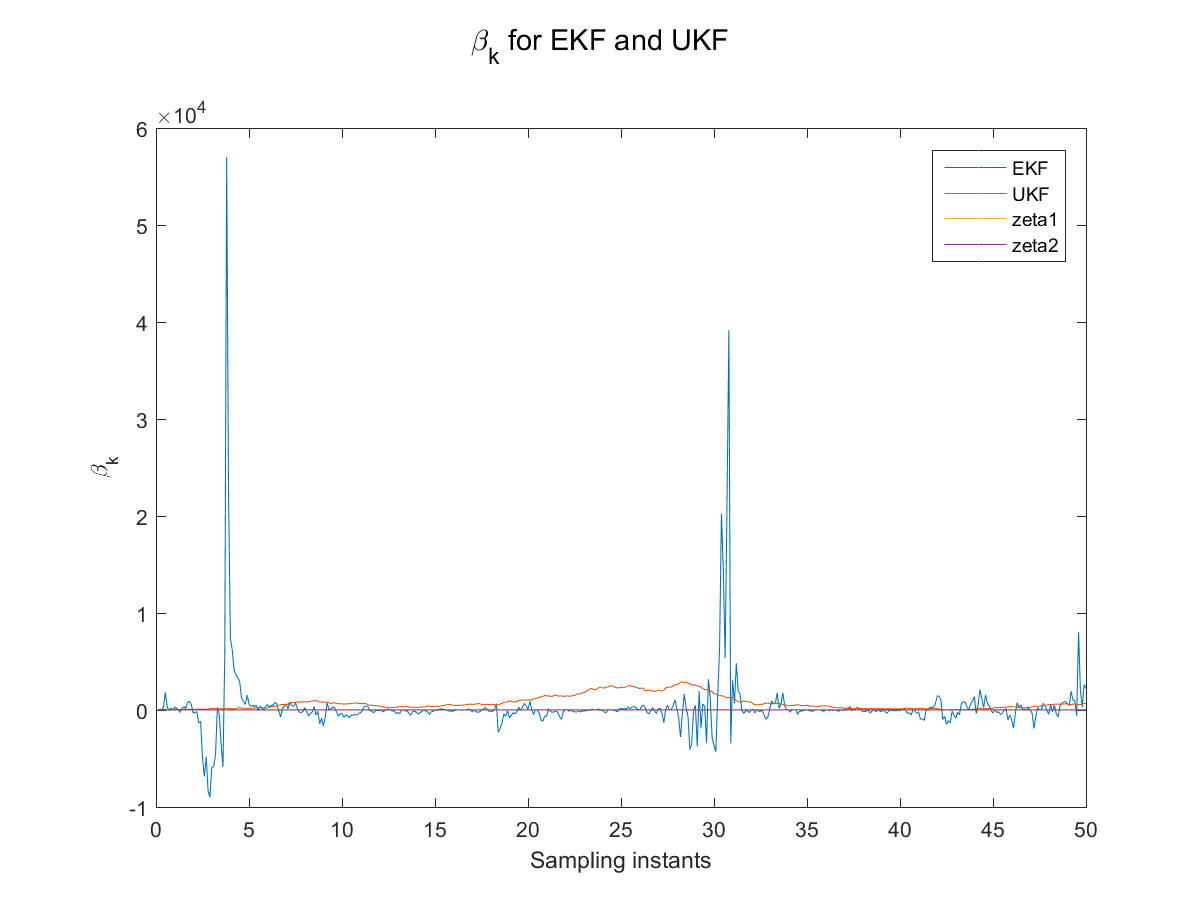
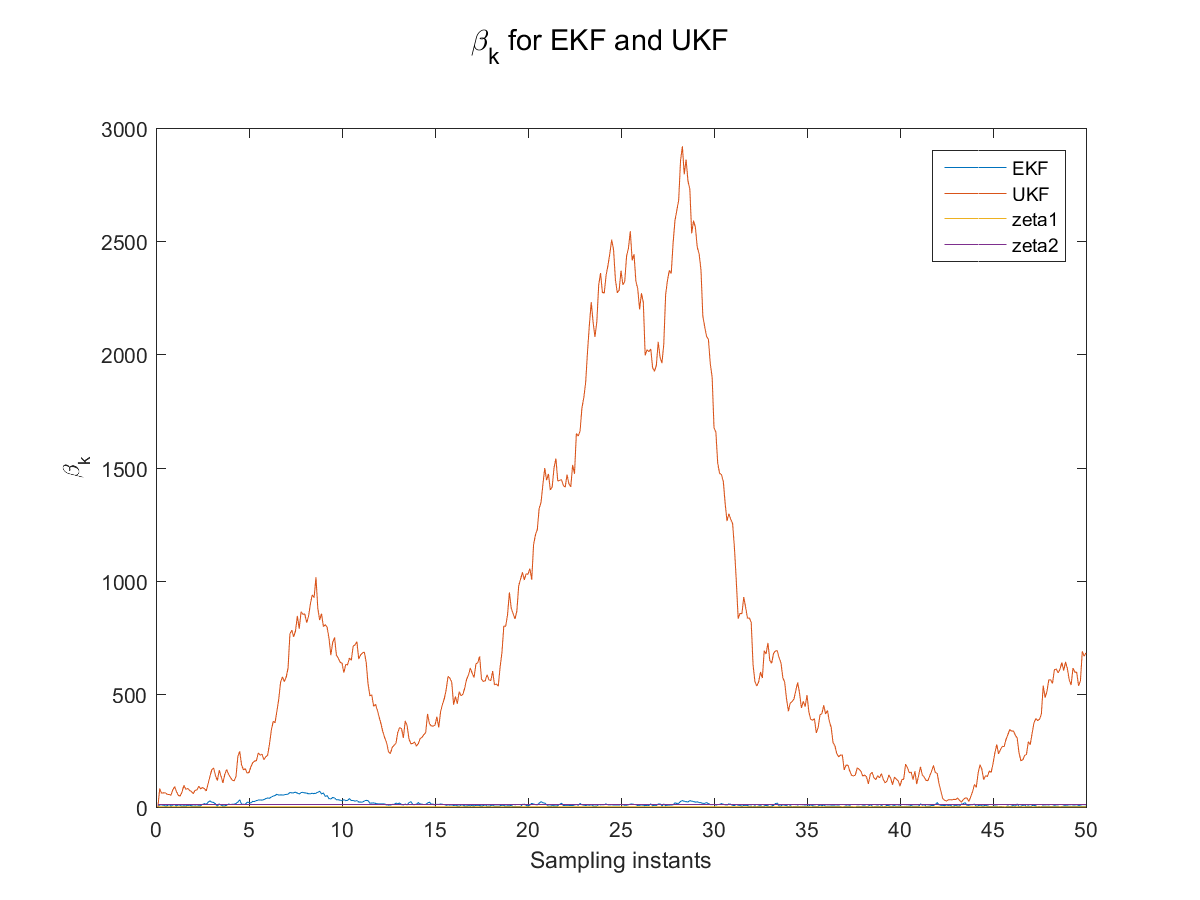
saving before changing the initial estimate of x to x_paper
for the shake of verifying using the same initial estimate of x as used in paper

diff --git a/codes/maincode.m b/codes/maincode.m
@@ -4,6 +4,7 @@ randn('state',8)
 k7= -4.448; k8=1;
 N=500; Ts=0.1;
 x_initial=[0.2 -0.6 -0.4 0.1 0.3];
+x_paper = [0.5 0.1 0.3 -0.2 4]; % initial estimate of x used in the paper by Kandepu
 x(:,1)=x_initial; % initial condition
 u=[1 1 0];  % constant input 
 Q=(1e-4)*eye(5);mw=[0 0 0 0 0];
@@ -84,7 +85,7 @@ for i=1:N
     ePkk(:,:,i+1)=(eye(5)-Lk*C)*ePkk1(:,:,i);
     spec_rad_EKF_Pkk(i)=max(abs(eig(ePkk(:,:,i)))); % spectral radii of updated covariance
     spec_rad_EKF_Pkk1(i)=max(abs(eig(ePkk1(:,:,i)))); % spectral radii of predicted covariance
-    betak_EKF(:,i)=(x(:,i)-exkk(:,i))'*inv(Pkk(:,:,i))*(x(:,i)-exkk(:,i)); % NESS calculation
+    betak_EKF(:,i)=(x(:,i)-exkk(:,i))'*inv(ePkk(:,:,i))*(x(:,i)-exkk(:,i)); % NESS calculation
 end
 %% plots for EKF
 figure(2)
@@ -141,7 +142,7 @@ for k =1:N
         %error calculation
         e_i(:,p)= Y_i(:,p) -  Yhat_kk1(:,k);
         E_i(:,p)= xhat_kk1_i(:,p) - xhat_kk1(:,k);
-        E_i_kk(:,p)=chikk_i(:,p) - chikk(:,k);  % for the calculatio of Pa matrix
+        %E_i_kk(:,p)=chikk_i(:,p) - chikk(:,k);  % for the calculation of Pa matrix
         % covariances calculation
         PEEkk1 = PEEkk1 + omega_i(:,p)*E_i(:,p)*E_i(:,p)'; 
         PEekk= PEekk + omega_i(:,p)*E_i(:,p)*e_i(:,p)';
@@ -265,22 +266,28 @@ disp('RMSE for UKF for all states respectively '); rmse_UKF
 %% NESS and chi square part
 n=5; alpha = 0.05
 zeta1=chi2inv(alpha,n); zeta2=chi2inv(1-alpha,n)
+% betak plot for all filter
 figure(18);suptitle('\beta_k for kF,EKF and UKF')
 plot(T(2:end),betak_KF,T(2:end),betak_EKF,T(2:end),betak_UKF,T(2:end),zeta1*ones(1,N),T(2:end),zeta2*ones(1,N)),legend('KF','EKF', 'UKF','zeta1','zeta2')
 xlabel('Sampling instants');ylabel('\beta_k');saveas(figure(18),'plots/betak_all.png')
+% betak plot for EKF and UKF together
 figure(19);suptitle('\beta_k for EKF and UKF')
 plot(T(2:end),betak_EKF,T(2:end),betak_UKF,T(2:end),zeta1*ones(1,N),T(2:end),zeta2*ones(1,N)),legend('EKF', 'UKF','zeta1','zeta2')
 xlabel('Sampling instants');ylabel('\beta_k');saveas(figure(19),'plots/betak_noKF.png')
+% betak plot for EKF only
+figure(20);suptitle('\beta_k for EKF and UKF')
+plot(T(2:end),betak_EKF,T(2:end),zeta1*ones(1,N),T(2:end),zeta2*ones(1,N)),legend('EKF', 'UKF','zeta1','zeta2')
+xlabel('Sampling instants');ylabel('\beta_k');saveas(figure(20),'plots/betak_EKF.png')
 %% for computing fraction of time instants betak exceeded the bond
 countKF=0;countEKF=0;countUKF=0;
 for k=1:N
-    if betak_KF(k)<=zeta1 &&   betak_KF(k)>zeta2 % KF condition for out of bound
+    if betak_KF(k)<=zeta1 ||   betak_KF(k)>=zeta2 % KF condition for out of bound
         countKF=countKF+1;
     end
-    if betak_EKF(k)<zeta1 &&   betak_EKF(k)>zeta2 %EKF  condition for out of bound
+    if betak_EKF(k)<=zeta1 ||   betak_EKF(k)>=zeta2 %EKF  condition for out of bound
         countEKF=countEKF+1;
     end
-    if betak_UKF(k)<zeta1 &&   betak_UKF(k)>zeta2 % UKF condition for out of bound
+    if betak_UKF(k)<=zeta1 ||   betak_UKF(k)>=zeta2 % UKF condition for out of bound
         countUKF=countUKF+1;
     end
 end
